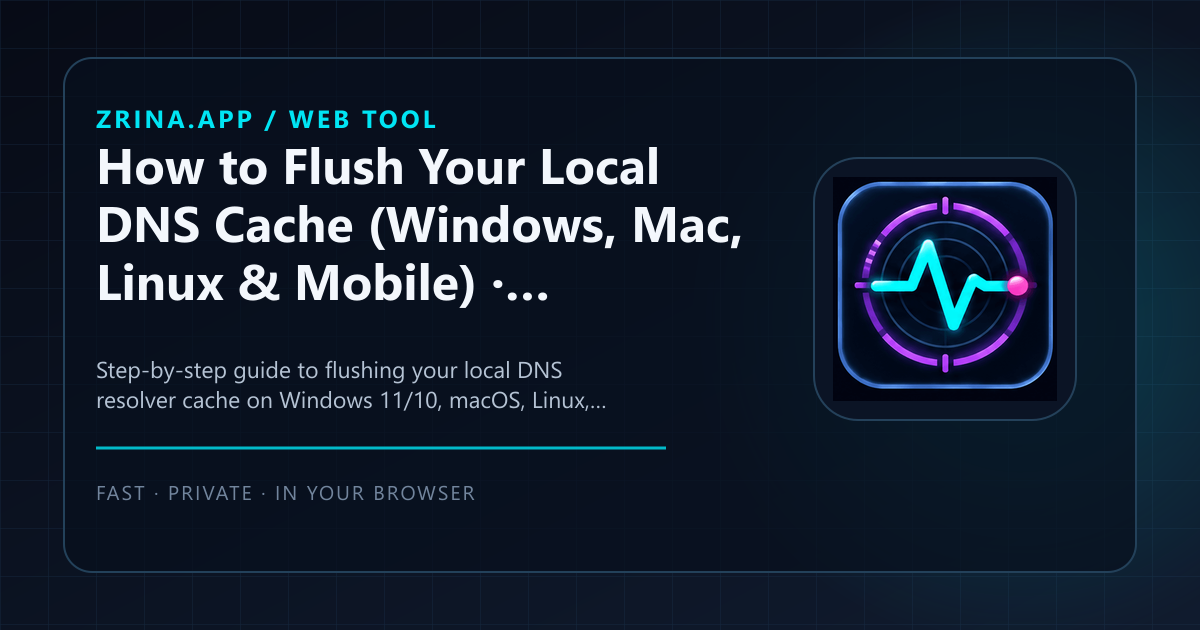
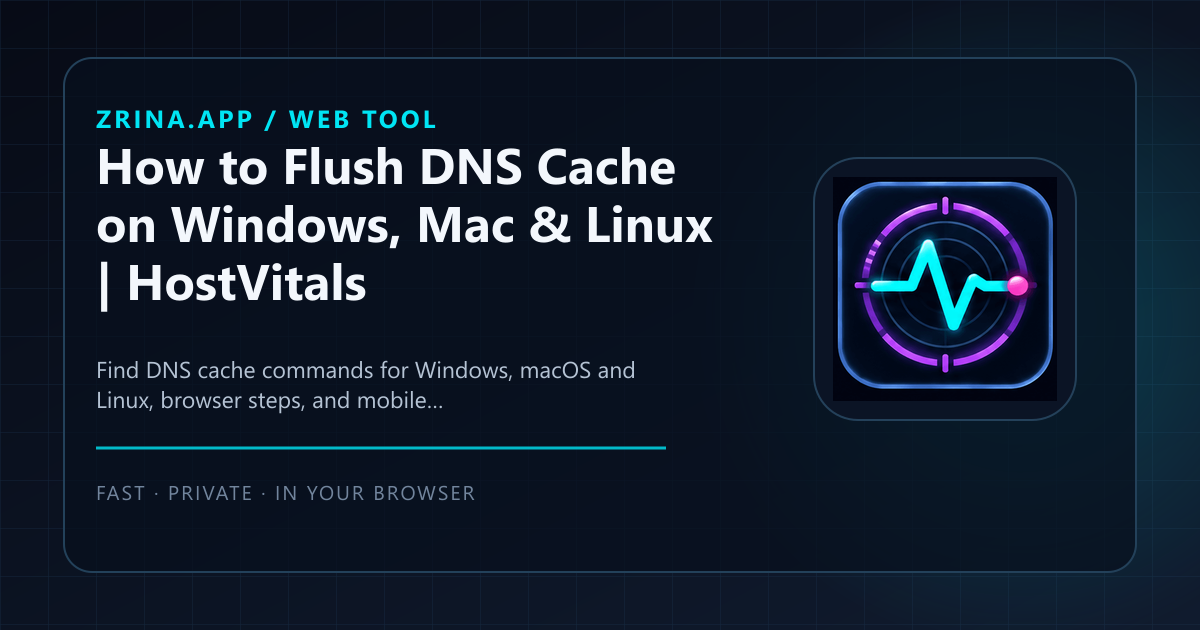
Improve DNS troubleshooting guide

diff --git a/hostvitals/guides/flush-dns.html b/hostvitals/guides/flush-dns.html
@@ -5,23 +5,23 @@
   <meta name="viewport" content="width=device-width, initial-scale=1.0, maximum-scale=5.0" />
   
   <!-- SEO & Primary Meta Tags -->
-  <title>How to Flush Your Local DNS Cache (Windows, Mac, Linux & Mobile) · HostVitals</title>
-  <meta name="description" content="Step-by-step guide to flushing your local DNS resolver cache on Windows 11/10, macOS, Linux, Chrome, iOS, and Android when a working website fails to load." />
+  <title>How to Flush DNS Cache on Windows, Mac &amp; Linux | HostVitals</title>
+  <meta name="description" content="Find DNS cache commands for Windows, macOS and Linux, browser steps, and mobile troubleshooting. Learn when flushing DNS may help and what to check next." />
   <meta name="keywords" content="flush dns, ipconfig flushdns, clear dns cache mac, chrome net internals dns, website not loading dns cache, hostvitals guides" />
   <meta name="author" content="zrina.app" />
   <meta name="robots" content="index, follow" />
-  <link rel="canonical" href="https://zrina.app/hostvitals/guides/flush-dns.html" />
+  <link rel="canonical" href="https://zrina.app/hostvitals/guides/flush-dns" />
   <meta property="og:type" content="website" />
   <meta property="og:site_name" content="zrina.app" />
-  <meta property="og:url" content="https://zrina.app/hostvitals/guides/flush-dns.html" />
-  <meta property="og:title" content="How to Flush Your Local DNS Cache (Windows, Mac, Linux &amp; Mobile) · HostVitals" />
-  <meta property="og:description" content="Step-by-step guide to flushing your local DNS resolver cache on Windows 11/10, macOS, Linux, Chrome, iOS, and Android when a working website fails to load." />
+  <meta property="og:url" content="https://zrina.app/hostvitals/guides/flush-dns" />
+  <meta property="og:title" content="How to Flush DNS Cache on Windows, Mac &amp; Linux | HostVitals" />
+  <meta property="og:description" content="Find DNS cache commands for Windows, macOS and Linux, browser steps, and mobile troubleshooting. Learn when flushing DNS may help and what to check next." />
   <meta property="og:image" content="https://zrina.app/assets/share-cards/tools/hostvitals-guides-flush-dns.png" />
   <meta property="og:image:width" content="1200" />
   <meta property="og:image:height" content="630" />
   <meta name="twitter:card" content="summary_large_image" />
-  <meta name="twitter:title" content="How to Flush Your Local DNS Cache (Windows, Mac, Linux &amp; Mobile) · HostVitals" />
-  <meta name="twitter:description" content="Step-by-step guide to flushing your local DNS resolver cache on Windows 11/10, macOS, Linux, Chrome, iOS, and Android when a working website fails to load." />
+  <meta name="twitter:title" content="How to Flush DNS Cache on Windows, Mac &amp; Linux | HostVitals" />
+  <meta name="twitter:description" content="Find DNS cache commands for Windows, macOS and Linux, browser steps, and mobile troubleshooting. Learn when flushing DNS may help and what to check next." />
   <meta name="twitter:image" content="https://zrina.app/assets/share-cards/tools/hostvitals-guides-flush-dns.png" />
 
   <!-- Mobile Browser Theme Colors -->
@@ -41,7 +41,7 @@
     "@type": "TechArticle",
     "headline": "How to Flush Your Local DNS Cache on Windows, macOS, Linux, and Mobile",
     "description": "Complete reference guide for clearing stale DNS resolver records across operating systems and browsers when a live website fails to connect.",
-    "url": "https://zrina.app/hostvitals/guides/flush-dns.html",
+    "url": "https://zrina.app/hostvitals/guides/flush-dns",
     "author": {
       "@type": "Organization",
       "name": "zrina.app",
@@ -253,6 +253,14 @@
       color: var(--text-primary);
       font-weight: 500;
     }
+    .guide-jumps { display: flex; flex-wrap: wrap; gap: .5rem; margin: .75rem 0 1.5rem; }
+    .guide-jumps a { display: inline-flex; align-items: center; min-height: 44px; padding: .4rem .8rem; border: 1px solid var(--border-subtle); border-radius: 999px; color: var(--text-primary); text-decoration: none; }
+    .guide-jumps a:hover { border-color: var(--up-dot); }
+    .cmd-block { flex-wrap: wrap; }
+    .cmd-block code { overflow-wrap: anywhere; }
+    .copy-command { min-height: 44px; padding: .4rem .8rem; border: 1px solid var(--border-strong); border-radius: 8px; background: var(--bg-surface); color: var(--text-primary); cursor: pointer; }
+    .copy-command:focus-visible, .guide-jumps a:focus-visible { outline: 2px solid var(--up-dot); outline-offset: 2px; }
+    .copy-status { flex-basis: 100%; color: var(--text-secondary); font-size: .85rem; }
 
     .callout-box {
       background: var(--bg-subtle);
@@ -339,9 +347,11 @@
 
     @media (max-width: 640px) {
       .related-grid { grid-template-columns: 1fr; }
+      .topbar { flex-wrap: wrap; gap: .75rem; }
+      .topbar-right { flex-wrap: wrap; }
     }
   </style>
-  <meta property="og:image:alt" content="How to Flush Your Local DNS Cache (Windows, Mac, Linux &amp; Mobile) · HostVitals — Step-by-step guide to flushing your local DNS resolver cache on Windows 11/10, macOS, Linux, Chrome, iOS, and Android when a working website fails to load." />
+  <meta property="og:image:alt" content="How to Flush DNS Cache on Windows, Mac &amp; Linux | HostVitals — Find DNS cache commands for Windows, macOS and Linux, browser steps, and mobile troubleshooting. Learn when flushing DNS may help and what to check next." />
 </head>
 <body>
 
@@ -370,6 +380,10 @@
         Published by <strong>zrina.app Tools · HostVitals</strong> · Technical Networking Reference
       </div>
 
+      <p>Need to clear a local DNS cache? Choose your device for the steps. On Windows, open Command Prompt and run <code>ipconfig /flushdns</code>. Clearing a cache may help with stale DNS records, but it does not repair a server outage or change your DNS provider.</p>
+      <nav class="guide-jumps" aria-label="Jump to device instructions">
+        <a href="#windows">Windows</a><a href="#macos">Mac</a><a href="#linux">Linux</a><a href="#browser">Browser</a><a href="#mobile">iPhone &amp; Android</a>
+      </nav>
       <p>
         When you type a domain name like <code>perplexity.ai</code> or <code>github.com</code> into your browser, your operating system does not query global DNS servers every single time. Instead, it saves recently resolved IP addresses in a temporary local database known as the <strong>DNS Resolver Cache</strong>.
       </p>
@@ -381,7 +395,7 @@
         <strong>When might flushing DNS help?</strong> If the <a href="../index.html" style="color:var(--text-primary);font-weight:600;">HostVitals edge probe</a> (or a public gateway fallback) receives a response but your browser cannot load the site, a local DNS or network issue is one possible cause. HostVitals cannot identify the cause on its own; compare the result with another network or resolver before changing settings.
       </div>
 
-      <h2>1. Flush DNS Cache on Windows 10 &amp; Windows 11</h2>
+      <h2 id="windows">1. Flush DNS Cache on Windows 10 &amp; Windows 11</h2>
       <p>
         On Windows, the DNS Client service manages cached domain records. You can clear it in seconds using Command Prompt, PowerShell, or Windows Terminal:
       </p>
@@ -391,56 +405,69 @@
       </ol>
       <div class="cmd-block">
         <code class="mono">ipconfig /flushdns</code>
+        <button class="copy-command" type="button" aria-label="Copy Windows DNS command">Copy</button>
+        <span class="copy-status" role="status" aria-live="polite"></span>
       </div>
       <p>
-        You will immediately see the confirmation message: <em>"Successfully flushed the DNS Resolver Cache."</em>
+        If the command succeeds, Windows displays a confirmation. If it reports an error, check the message before proceeding.
       </p>
 
-      <h2>2. Flush DNS Cache on macOS (Sonoma, Sequoia, Ventura &amp; Monterey)</h2>
+      <h2 id="macos">2. Flush DNS Cache on macOS</h2>
       <p>
-        On modern macOS releases, DNS caching is handled by both a directory service cache and the <code>mDNSResponder</code> daemon. Open the <strong>Terminal</strong> app (via Spotlight <code>Cmd + Space</code>) and run:
+        On recent macOS releases, open the <strong>Terminal</strong> app (via Spotlight <code>Cmd + Space</code>) and run:
       </p>
       <div class="cmd-block">
         <code class="mono">sudo dscacheutil -flushcache; sudo killall -HUP mDNSResponder</code>
+        <button class="copy-command" type="button" aria-label="Copy macOS DNS command">Copy</button>
+        <span class="copy-status" role="status" aria-live="polite"></span>
       </div>
       <p>
         Enter your Mac login password when prompted (characters will not appear as you type) and press <strong>Return</strong>.
       </p>
 
-      <h2>3. Flush DNS Cache on Linux (Ubuntu, Debian, Fedora)</h2>
+      <h2 id="linux">3. Flush DNS Cache on Linux</h2>
       <p>
-        Most modern Linux distributions use <code>systemd-resolved</code> to manage local DNS caching. Open your terminal and run:
+        If your system uses <code>systemd-resolved</code>, open a terminal and run:
       </p>
       <div class="cmd-block">
         <code class="mono">sudo resolvectl flush-caches</code>
+        <button class="copy-command" type="button" aria-label="Copy Linux DNS command">Copy</button>
+        <span class="copy-status" role="status" aria-live="polite"></span>
       </div>
       <p>
-        If your distribution uses <code>dnsmasq</code> or <code>nscd</code> instead, restart the respective daemon using <code>sudo systemctl restart dnsmasq</code> or <code>sudo systemctl restart nscd</code>.
+        Other systems may use a different local resolver or no local DNS cache. Check which service is running before changing it; service restarts can affect other users or network services.
       </p>
 
-      <h2>4. Clear Internal Browser DNS &amp; Socket Cache (Chrome, Edge, Brave)</h2>
+      <h2 id="browser">4. Clear the browser's DNS cache</h2>
       <p>
-        Chromium-based browsers maintain their own internal DNS cache separate from your operating system. Even after running <code>ipconfig /flushdns</code>, your browser may hold onto stale active sockets:
+        Chrome maintains its own host cache, separate from the operating system. Browser interfaces can change; the following steps are for Chrome:
       </p>
       <ol>
         <li>Open a new tab and paste the following internal address into the URL bar:</li>
       </ol>
       <div class="cmd-block">
         <code class="mono">chrome://net-internals/#dns</code>
+        <button class="copy-command" type="button" aria-label="Copy Chrome DNS page address">Copy</button>
+        <span class="copy-status" role="status" aria-live="polite"></span>
       </div>
       <ol start="2">
         <li>Click the <strong>"Clear host cache"</strong> button.</li>
-        <li>Next, navigate to <code>chrome://net-internals/#sockets</code> in the left menu and click <strong>"Flush socket pools"</strong>.</li>
       </ol>
+      <p>Edge and Brave have their own internal pages; check your browser's current documentation. Clearing Chrome's host cache does not necessarily close existing connections. Flushing socket pools is a separate troubleshooting step that may interrupt active connections.</p>
 
-      <h2>5. Clear DNS Cache on iOS (iPhone / iPad) and Android</h2>
+      <h2 id="mobile">5. DNS troubleshooting on iPhone, iPad and Android</h2>
       <p>
-        Mobile operating systems do not provide a terminal command for unrooted devices, but you can force an immediate network stack and DNS flush using either of these methods:
+        Mobile devices do not offer a universal DNS-flush command in their standard settings. Try the following network troubleshooting steps instead:
       </p>
       <ul>
         <li><strong>Toggle Airplane Mode:</strong> This may refresh the device's network connection, though behavior varies by device and it is not guaranteed to clear every DNS cache.</li>
-        <li><strong>Choose Encrypted DNS:</strong> On supported Android devices, a Private DNS provider hostname such as <code>one.one.one.one</code> or <code>dns.google</code> can route DNS queries through that provider. Availability and effects depend on device and network configuration.</li>
+        <li><strong>Compare another connection:</strong> Try mobile data instead of Wi-Fi, or another device on the same network. This helps narrow down the problem but does not prove DNS is the cause.</li>
       </ul>
+
+      <h2>What to check next</h2>
+      <p>Reload the site after the cache is cleared. If it still fails, compare another browser or network and check whether your resolver or network administrator reports an issue. A server outage, firewall, VPN or browser connection problem will not necessarily be fixed by flushing DNS.</p>
+      <p>Use <a href="../">HostVitals</a> to compare browser, edge and DNS observations. A difference between checks can guide your next step, but is not proof of the cause or a global outage.</p>
+      <p>Reference: <a href="https://learn.microsoft.com/en-us/windows-server/administration/windows-commands/ipconfig">Microsoft's ipconfig documentation</a> describes the Windows <code>/flushdns</code> option.</p>
 
       <div class="related-guides">
         <strong style="font-size:0.85rem;text-transform:uppercase;letter-spacing:0.04em;color:var(--text-muted);">Continue Reading</strong>
@@ -476,6 +503,17 @@
   </footer>
 
   <script>
+    document.querySelectorAll('.copy-command').forEach(button => {
+      button.addEventListener('click', async () => {
+        const status = button.parentElement.querySelector('.copy-status');
+        try {
+          await navigator.clipboard.writeText(button.parentElement.querySelector('code').textContent);
+          status.textContent = 'Copied. Paste it only where the instructions indicate.';
+        } catch {
+          status.textContent = 'Could not copy. Select the command or address and copy it manually.';
+        }
+      });
+    });
     const THEME_KEY = 'hostvitals_theme_pref';
     const mediaQuery = window.matchMedia('(prefers-color-scheme: dark)');
     const themeBtns = document.querySelectorAll('[data-set-theme]');

diff --git a/tools/guides/index.html b/tools/guides/index.html
@@ -69,7 +69,7 @@
     <h2 class="guide-group">Network troubleshooting</h2>
     <section class="guide-list" aria-label="Network troubleshooting guides">
       <a class="guide-card" href="../../hostvitals/guides/dns-vs-server-outage.html"><span class="topic">Troubleshooting</span><h2>Is it DNS, the network, or the website?</h2><p>Use DNS, browser and edge observations as separate clues without mistaking one probe for a global outage verdict.</p><span class="read">Read guide <span aria-hidden="true">→</span></span></a>
-      <a class="guide-card" href="../../hostvitals/guides/flush-dns.html"><span class="topic">How-to</span><h2>When and how to flush a DNS cache</h2><p>What a local resolver cache does, when clearing it may help, and platform-specific ways to refresh it.</p><span class="read">Read guide <span aria-hidden="true">→</span></span></a>
+      <a class="guide-card" href="../../hostvitals/guides/flush-dns"><span class="topic">How-to</span><h2>When and how to flush a DNS cache</h2><p>What a local resolver cache does, when clearing it may help, and platform-specific ways to refresh it.</p><span class="read">Read guide <span aria-hidden="true">→</span></span></a>
       <a class="guide-card" href="../../hostvitals/guides/http-status-codes.html"><span class="topic">HTTP</span><h2>What common HTTP status codes actually tell you</h2><p>Interpret response classes and common codes while avoiding assumptions about the underlying cause.</p><span class="read">Read guide <span aria-hidden="true">→</span></span></a>
       <a class="guide-card" href="cidr-subnetting-explained.html"><span class="topic">Networking basics</span><h2>CIDR and subnet masks, step by step</h2><p>Read a prefix, identify an IPv4 block, and understand the important /31 and /32 exceptions.</p><span class="read">Read guide <span aria-hidden="true">→</span></span></a>
     </section>

diff --git a/hostvitals/index.html b/hostvitals/index.html
@@ -1701,7 +1701,7 @@
       </div>
 
       <div class="guides-preview-grid">
-        <a href="guides/flush-dns.html" class="guide-preview-card">
+        <a href="guides/flush-dns" class="guide-preview-card">
           <div>
             <span class="guide-tag">Troubleshooting</span>
             <h3>How to Flush Your Local DNS Cache on Windows, Mac & Mobile</h3>
@@ -2373,7 +2373,7 @@
         <span class="metric-pill mono"><strong>${report.browserProbeMs}ms</strong> browser fetch</span>
         <span class="metric-pill mono"><strong>${escapeHtml(report.httpLabel)}</strong></span>
         <a class="metric-pill" href="?q=${encodeURIComponent(report.fullUrl)}" target="_blank" rel="noopener noreferrer">Share this check ↗</a>
-        ${report.gatewayResponded && !report.localResponded ? '<a class="metric-pill" href="guides/flush-dns.html">Compare local DNS ↗</a>' : ''}
+        ${report.gatewayResponded && !report.localResponded ? '<a class="metric-pill" href="guides/flush-dns">Compare local DNS ↗</a>' : ''}
       `;
 
       pipelineSteps.innerHTML = `

diff --git a/hostvitals/guides/dns-vs-server-outage.html b/hostvitals/guides/dns-vs-server-outage.html
@@ -451,7 +451,7 @@
       <div class="related-guides">
         <strong style="font-size:0.85rem;text-transform:uppercase;letter-spacing:0.04em;color:var(--text-muted);">Continue Reading</strong>
         <div class="related-grid">
-          <a href="flush-dns.html" class="related-link-card">
+          <a href="flush-dns" class="related-link-card">
             <strong>How to Flush Your Local DNS Cache →</strong>
             <span>Clear stale DNS records on Windows, Mac &amp; Mobile</span>
           </a>

diff --git a/hostvitals/guides/http-status-codes.html b/hostvitals/guides/http-status-codes.html
@@ -504,7 +504,7 @@
       <div class="related-guides">
         <strong style="font-size:0.85rem;text-transform:uppercase;letter-spacing:0.04em;color:var(--text-muted);">Continue Reading</strong>
         <div class="related-grid">
-          <a href="flush-dns.html" class="related-link-card">
+          <a href="flush-dns" class="related-link-card">
             <strong>How to Flush Your Local DNS Cache →</strong>
             <span>Clear stale DNS records on Windows, Mac &amp; Mobile</span>
           </a>

diff --git a/README.md b/README.md
@@ -35,6 +35,8 @@ Reserved ad positions are planning notes only, not active ad units. Create the E
 
 The JSON tool formats source tokens directly so large number spellings, duplicate keys, and original key order are not silently changed; sorting is an explicit action. Its repair action is limited to converting single-quoted strings and removing trailing commas. The Cron tool supports Linux/POSIX, Kubernetes, GitHub Actions, and AWS EventBridge syntax, and previews upcoming runs in an IANA time zone while warning about platform-specific time-zone behavior.
 
+The HostVitals DNS guide uses the extensionless URL `/hostvitals/guides/flush-dns`: Cloudflare redirects its `.html` URL to that address. Keep its canonical, sitemap entry and internal links aligned. Run `node --test tests/flush-dns-guide.test.cjs` to check these signals and guide navigation.
+
 The CIDR calculator recognizes selected IPv4 address types but does not determine reachability; /31 host counts assume a point-to-point link. Download calculator presets use decimal units and select the decimal convention. Run `node --test tests/calculators.test.cjs` for calculator regression tests.
 
 The UUID Inspector decodes UUID/ULID/ObjectId and selected Snowflake identifiers in the browser. The Network Planner supports IPv4/IPv6 CIDRs, overlap and gap checks, aligned next-subnet selection, VLSM, CSV export, and share links; share links include the entered address plan.
